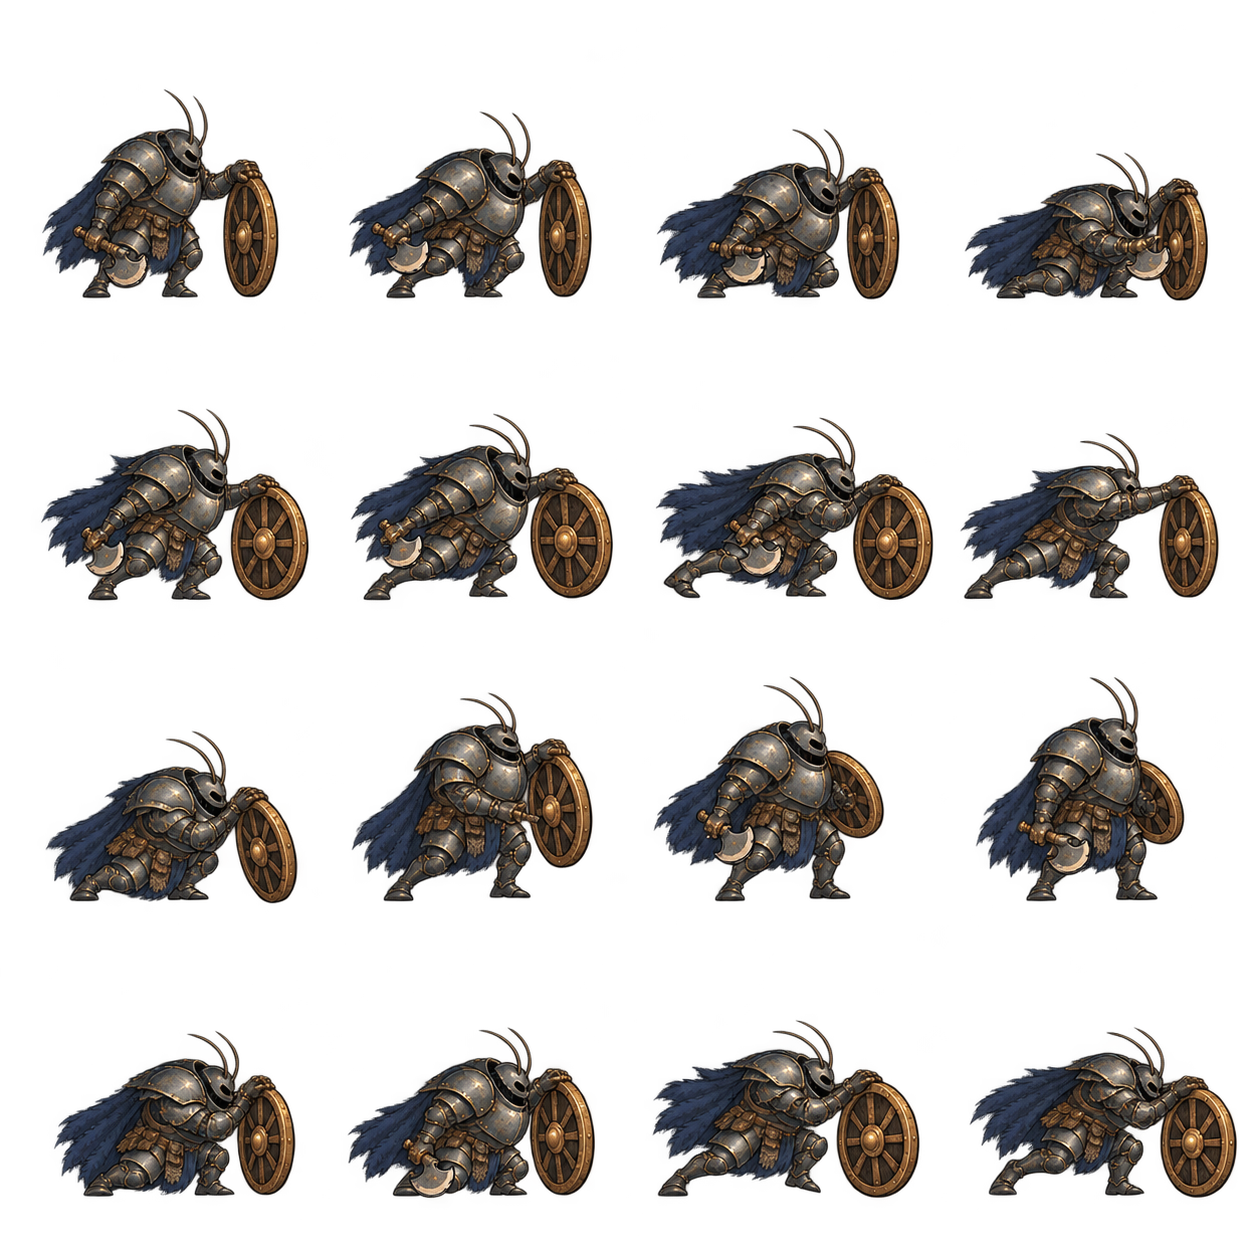
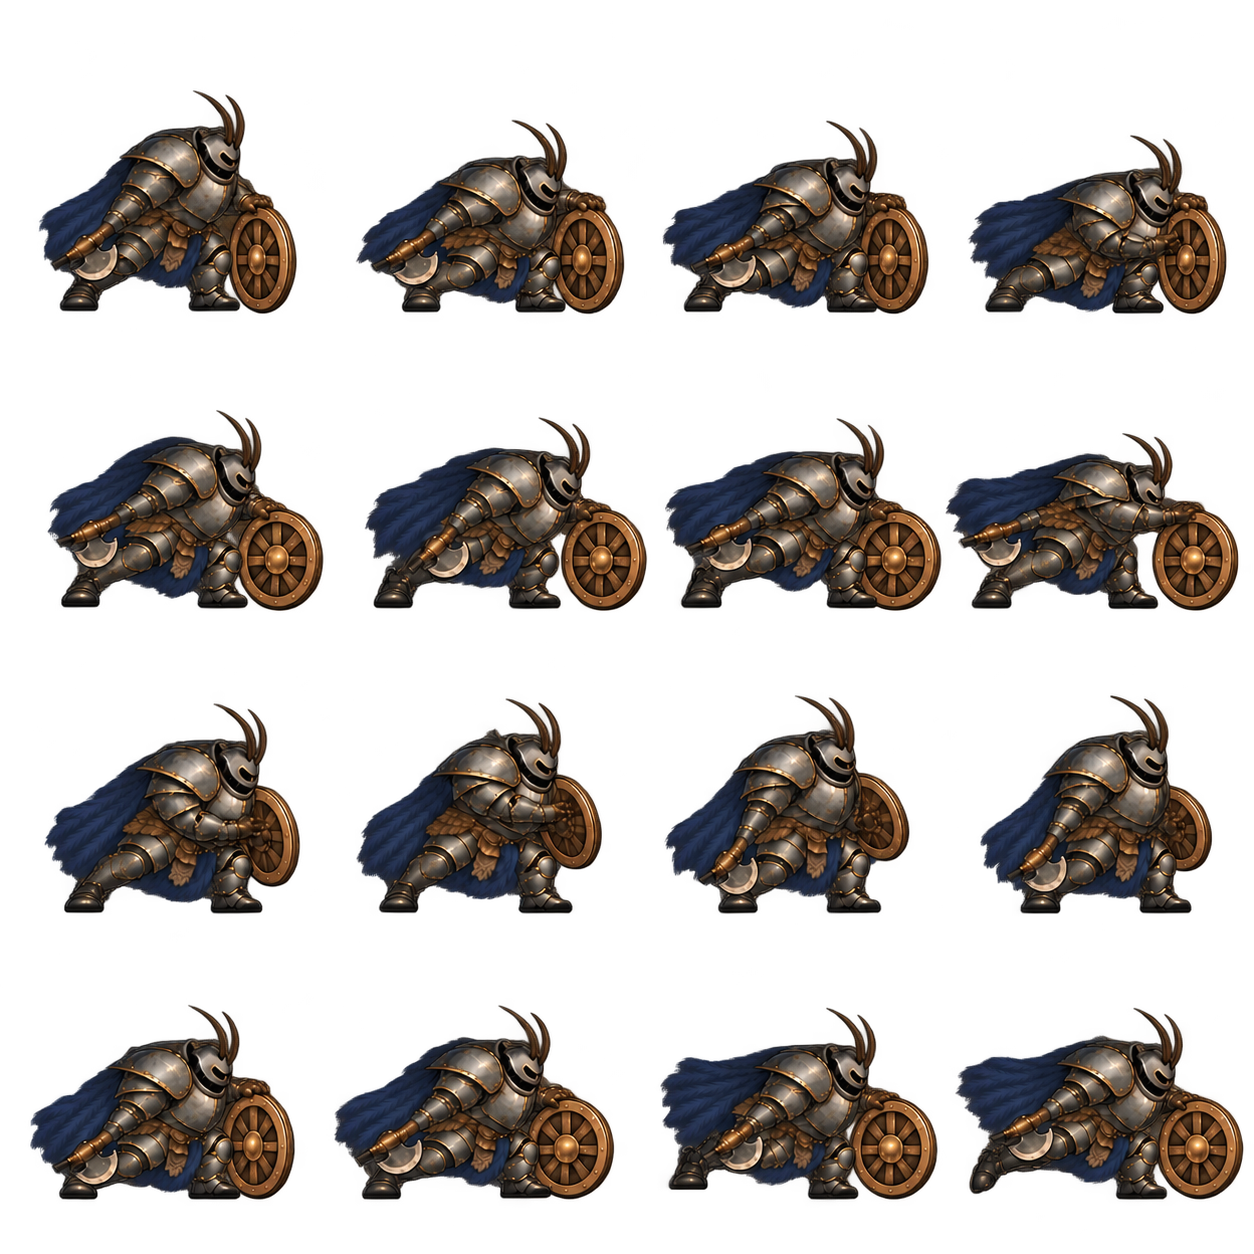
art: redraw elite wheel ride with reference-sized shield

diff --git a/art_requests/creature_attacks_v1/incoming/README.md b/art_requests/creature_attacks_v1/incoming/README.md
@@ -92,3 +92,5 @@
 | wax_lancer | [wax_charge_loops.png](wax_charge_loops.png) | 4 |
 
 同名 .txt 为实际提示词，.json 为参考/图像哈希、逐帧坐标和目检记录。源图保留原生成字节，尚未接入运行时；动作质量与连续循环仍需项目方验收。
+
+重画记录（2026-10-18）：`wheel_elite_ride.png` — 以原参考和已认可的 wheel_return 为标尺，将轮盾缩为站立高度约一半，接地盾顶位于腰胸之间；保留 16 格并修正重复盾牌。
